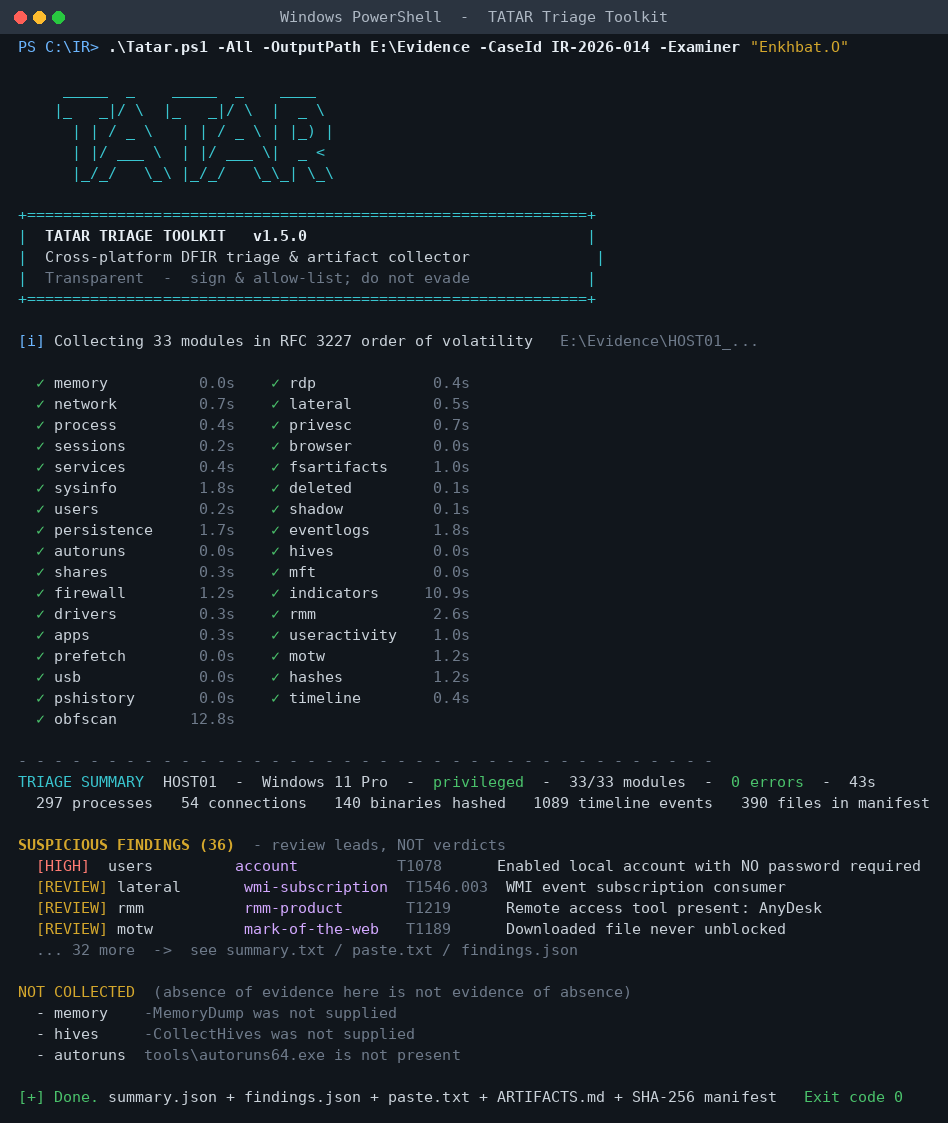
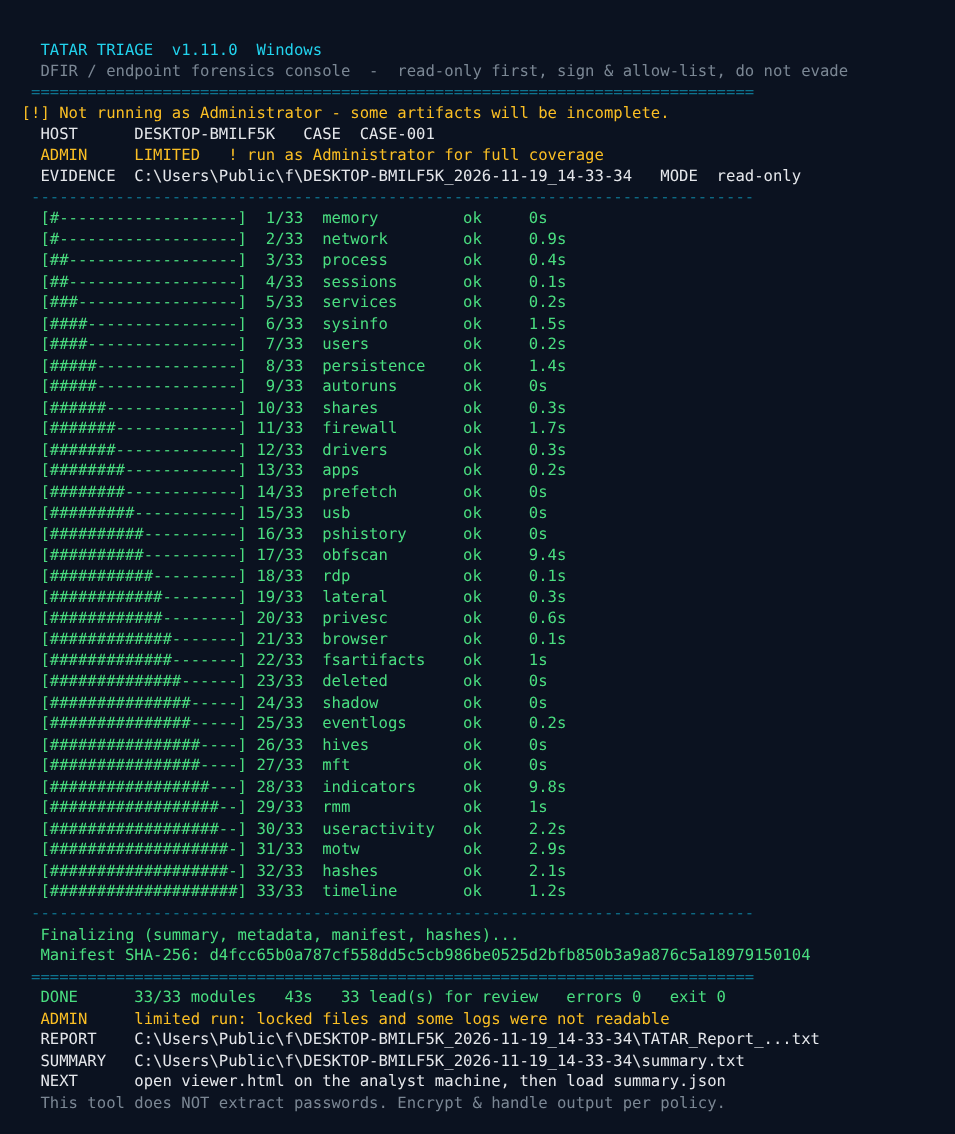
Console and viewer: a compact header, one status line per module, a dark findings viewer
Both editions print the same layout in plain ASCII, appended line by line. The viewer stays one sealed file. Linux no longer prints a /proc cmdline error when a process exits during the scan.

diff --git a/tools/viewer.html b/tools/viewer.html
@@ -2,16 +2,16 @@
 <html lang="en">
 <head>
 <meta charset="utf-8">
-<meta http-equiv="Content-Security-Policy" content="default-src 'none'; script-src 'sha256-3fI5v9WRMVGpoByKcuRh5dhkCIuQoaY3kxQKk/zDfGQ='; style-src 'sha256-ax8vZy2HFTpoPMFtgUSaDLzsJf5v4SKVKZRReo5gem0='; img-src data:; base-uri 'none'; form-action 'none'">
+<meta http-equiv="Content-Security-Policy" content="default-src 'none'; script-src 'sha256-S0JTFvPpWS52wLbrE2dRdkZjMw1uQ3yiRN8+rzE+2wQ='; style-src 'sha256-J51LYcle+EG1wgN7YSRDK8yC2TSujFvaYtq/Sq789Oc='; img-src data:; base-uri 'none'; form-action 'none'">
 <meta name="viewport" content="width=device-width, initial-scale=1">
 <meta name="referrer" content="no-referrer">
 <title>TATAR findings viewer</title>
-<style>:root{--bg:#f6f7f9;--fg:#15191f;--mut:#5b6573;--card:#fff;--bd:#d5dae1;--ac:#0b6e6e;--hi:#b42318;--rv:#8a5a00;--ioc:#6b2fa0;--cor:#1b5fb4;--bgc:#eef1f5}
-@media (prefers-color-scheme:dark){:root{--bg:#0f1318;--fg:#e6e9ee;--mut:#9aa5b4;--card:#171c23;--bd:#2b333d;--ac:#4fc3c3;--hi:#ff7b72;--rv:#e3b341;--ioc:#c9a0ff;--cor:#79b8ff;--bgc:#1d232b}}
+<style>:root{--bg:#070d17;--fg:#d7e6f2;--mut:#8aa0b4;--card:#0c1626;--bd:#16324a;--ac:#38e8ff;--hi:#f87171;--rv:#fbbf24;--ioc:#c9a0ff;--cor:#79b8ff;--bgc:#0a1220;--ok:#4ade80}
 *{box-sizing:border-box}
 body{margin:0;background:var(--bg);color:var(--fg);font:15px/1.5 system-ui,-apple-system,"Segoe UI",Roboto,sans-serif}
 .top,main,.foot{max-width:1100px;margin:0 auto;padding:12px 16px}
-h1{margin:8px 0 4px;font-size:22px}
+h1{margin:8px 0 4px;font-size:28px;letter-spacing:.04em;color:var(--ac);font-family:ui-monospace,SFMono-Regular,Consolas,monospace}
+.top{border-bottom:1px solid var(--bd)}
 .note{margin:0;color:var(--mut);max-width:70ch}
 code,pre{font-family:ui-monospace,SFMono-Regular,Consolas,monospace;font-size:13px}
 .muted{color:var(--mut)}
@@ -22,11 +22,11 @@ code,pre{font-family:ui-monospace,SFMono-Regular,Consolas,monospace;font-size:13
 .msg{flex-basis:100%;margin:0;min-height:1.4em}
 .msg.err{color:var(--hi)}
 .panel{background:var(--card);border:1px solid var(--bd);border-radius:10px;padding:12px 14px;margin-top:12px}
-.kv{display:grid;grid-template-columns:repeat(auto-fit,minmax(200px,1fr));gap:6px 18px;margin:0}
-.kv div{min-width:0}
-.kv dt{color:var(--mut);font-size:12px;text-transform:uppercase;letter-spacing:.04em}
-.kv dd{margin:0;overflow-wrap:anywhere}
-.warn{border-left:4px solid var(--rv);padding-left:10px;margin:10px 0 0}
+.kv{display:grid;grid-template-columns:repeat(auto-fit,minmax(200px,1fr));gap:10px;margin:0}
+.kv div{min-width:0;background:var(--bgc);border:1px solid var(--bd);border-radius:10px;padding:10px 12px}
+.kv dt{color:var(--mut);font-size:11px;text-transform:uppercase;letter-spacing:.14em}
+.kv dd{margin:4px 0 0;overflow-wrap:anywhere;font-size:17px;font-weight:600}
+.warn{border-left:4px solid var(--rv);padding:6px 10px;margin:10px 0 0;background:var(--bgc);border-radius:0 6px 6px 0;color:var(--rv)}
 #controls{display:flex;gap:10px 16px;flex-wrap:wrap;align-items:center}
 #controls label{display:flex;gap:6px;align-items:center;font-size:13px}
 input[type=search],select{background:var(--bg);color:var(--fg);border:1px solid var(--bd);border-radius:6px;padding:5px 8px;font:inherit;max-width:100%}
@@ -51,7 +51,8 @@ a{color:var(--ac)}
 ul.paths{margin:4px 0;padding-left:20px;overflow-wrap:anywhere}
 table{border-collapse:collapse;width:100%;margin-top:6px}
 th,td{border-bottom:1px solid var(--bd);padding:3px 8px;text-align:left;font-size:13px}
-.foot{font-size:13px}</style>
+.foot{font-size:13px;border-top:1px solid var(--bd);margin-top:18px}
+.foot b{color:var(--ac);float:right;letter-spacing:.1em}</style>
 </head>
 <body>
 <header class="top">
@@ -77,7 +78,7 @@ th,td{border-bottom:1px solid var(--bd);padding:3px 8px;text-align:left;font-siz
   </section>
   <section id="list" aria-label="Findings"></section>
 </main>
-<footer class="foot muted">Guidance is a starting question per artifact class, written for an analyst working on their own machine. It never replaces reading the evidence.</footer>
+<footer class="foot muted"><b>READ-ONLY FIRST</b>Guidance is a starting question per artifact class, written for an analyst working on their own machine. It never replaces reading the evidence.</footer>
 <script type="application/json" id="guidance">{
  "account": {
   "title": "Local account",
@@ -467,6 +468,9 @@ th,td{border-bottom:1px solid var(--bd);padding:3px 8px;text-align:left;font-siz
     if ('errorsLogged' in doc) { kv(dl, 'Errors logged', s(doc.errorsLogged, 20)); }
     kv(dl, 'Findings', s(doc.activeFindingsCount !== undefined ? doc.activeFindingsCount + ' active, ' + doc.suppressedCount + ' suppressed' : (Array.isArray(doc.findings) ? doc.findings.length : 0), 80));
     p.appendChild(dl);
+    if (doc.privileged === false || doc.privileged === 'False' || doc.privileged === 'false') {
+      p.appendChild(el('p', 'warn', 'Standard user run: locked files and some logs were not readable. Run as Administrator (Windows) or root (Linux) for full coverage. Nothing was changed on this host.'));
+    }
 
     var skipped = Array.isArray(doc.modulesSkipped) ? doc.modulesSkipped : [];
     if (skipped.length) {

diff --git a/CHANGELOG.md b/CHANGELOG.md
@@ -4,6 +4,15 @@ All notable changes to TATAR Triage Toolkit are documented here.
 The format follows [Keep a Changelog](https://keepachangelog.com/); versions use
 [SemVer](https://semver.org/).
 
+## [Unreleased]
+
+### Changed
+- **A new console layout in both editions.** The banner is now a compact header, a block shows host, case, privilege and the evidence folder, and each module prints one line with a progress bar, its status and its time. When the run is not privileged the header says so and what to do about it. The run ends with a short result block (modules, time, leads, errors, exit code) and where the report and summary are. The layout is plain ASCII, appended line by line, so redirected output, `-Silent` and remote sessions behave as before.
+- **The findings viewer has a dark look** with card-style summary fields, and it states when a run was not privileged. The page is still one sealed file with no network access.
+
+### Fixed
+- **Linux: a process that exited during the scan** no longer prints a `/proc/<pid>/cmdline: No such file` message into the console output.
+
 ## [1.11.0] — 2026-11-19
 
 New detections in both editions (found by the technique-injection lab), fixes for IOC and allowlist feeds, analyst tools and documentation, and corrected Mongolian text.
